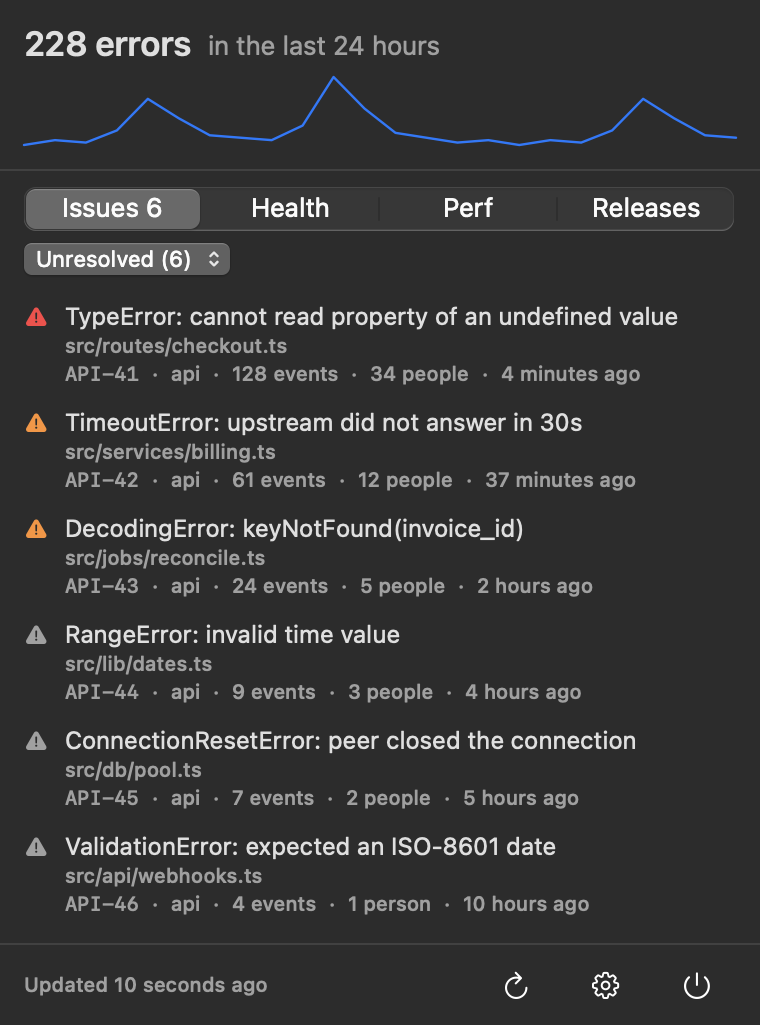
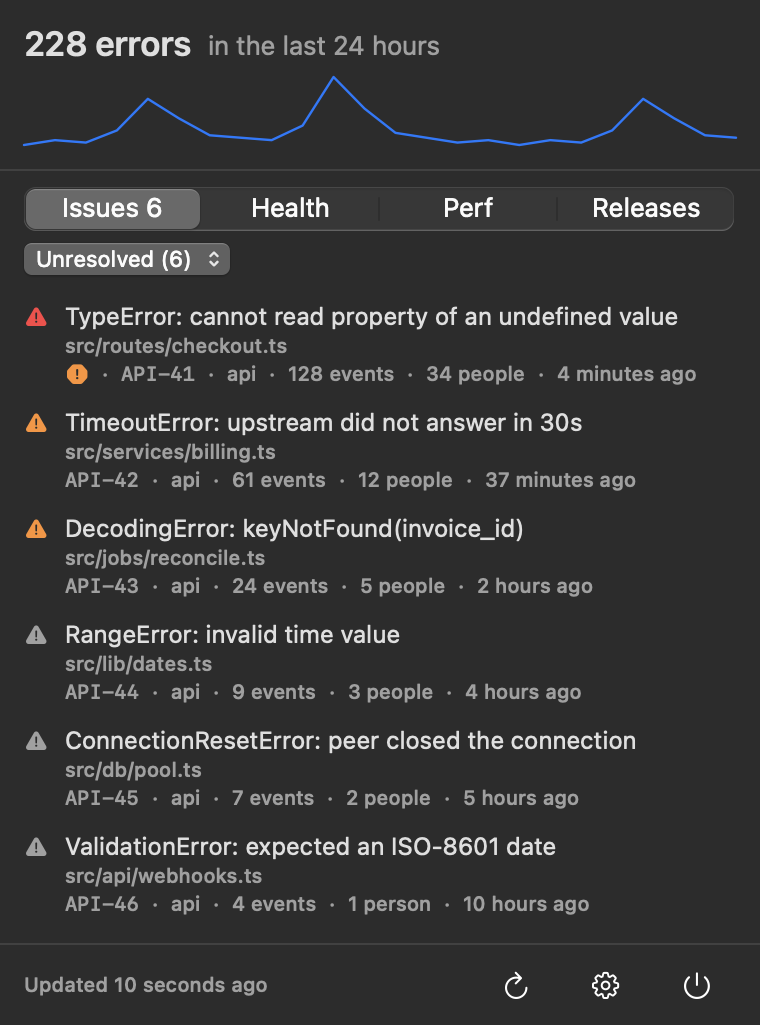
feat: mark the issues that crashed, and let Dependabot watch the pinned actions
isUnhandled had been decoded since the first commit and displayed nowhere. An
unhandled error is a crash rather than something the code caught and carried on
from, which is the next thing worth knowing after the title, and Sentry sends it
on every issue at no extra cost.

It is a marker and not the word "crash". The word fit until it did not: with it
in the metadata line the row wrapped and pushed the timestamp onto a second line
at the panel's 380 pt, which the render showed and no amount of reading the code
would have. The sentence is in the tooltip and in the row's accessibility label,
so nothing is lost to a pointer or to VoiceOver.

With that there is nothing decoded from Sentry that goes unused. A sweep turns
up five more candidates and all five are read through a computed property:
shortVersion through label, uptimeStatus through isHealthy, isMuted through
isActive, errorIDs through errorCount, expiresIn through the device flow's
deadline.

Dependabot covers github-actions only. Swift Package Manager is not in its
supported ecosystems, checked against GitHub's own table rather than assumed,
which is the same lesson the muter config taught an hour ago: a key the tool
ignores is worse than no key, because the file looks configured.

Claude-Session: https://claude.ai/code/session_01EnyBemE5XT9BRzHrKcKQFh

Changed region(s): [[0.3026, 0.3434, 0.9079, 0.3746], [0.0908, 0.3434, 0.2724, 0.3746]]

diff --git a/Sources/Centinela/PanelRows.swift b/Sources/Centinela/PanelRows.swift
@@ -17,6 +17,9 @@ struct IssueSection: View {
         var parts: [String] = []
         parts.append(issue.triage.label + " priority")
         parts.append(issue.title)
+        if issue.isUnhandled == true {
+            parts.append("unhandled, a crash")
+        }
         if let culprit = issue.culprit, !culprit.isEmpty {
             parts.append("in " + culprit)
         }
@@ -70,6 +73,22 @@ struct IssueSection: View {
                             // about it. It was decoded from the first commit and never shown.
                             if differentiateWithoutColor {
                                 Text(issue.triage.label)
+                                Text("·")
+                            }
+                            // Decoded since the first commit and never shown until now. An
+                            // unhandled error is a crash rather than something the code caught
+                            // and carried on from, which is the next thing worth knowing after
+                            // the title, and Sentry sends it for free on every issue.
+                            if issue.isUnhandled == true {
+                                // A symbol and not the word "crash". The word fits until it
+                                // does not: with it in place this line wrapped and pushed the
+                                // timestamp onto a second row at the panel's 380 pt. The meaning
+                                // is carried by the tooltip for a pointer and by the row's
+                                // accessibility label for VoiceOver, which both say it in full.
+                                Image(systemName: "exclamationmark.octagon.fill")
+                                    .foregroundStyle(.orange)
+                                    .help("Unhandled: this one crashed")
+                                Text("·")
                             }
                             Text(issue.shortId)
                                 .font(.system(.caption2, design: .monospaced))

diff --git a/Tools/screenshot.swift b/Tools/screenshot.swift
@@ -29,12 +29,14 @@ import SwiftUI
         }
 
         func issue(_ id: String, _ title: String, _ culprit: String, _ count: Int,
-                   _ users: Int, _ sub: String, _ pri: String, _ seen: String) -> SentryIssue {
+                   _ users: Int, _ sub: String, _ pri: String, _ seen: String,
+                   _ unhandled: Bool = false) -> SentryIssue {
             let json = """
             {"id":"\(id)","shortId":"API-\(id)","title":"\(title)","culprit":"\(culprit)",
              "level":"error","substatus":"\(sub)","priority":"\(pri)",
              "permalink":"https://example.sentry.io/issues/\(id)/",
              "lastSeen":"\(seen)","userCount":\(users),"count":"\(count)",
+             "isUnhandled":\(unhandled),
              "project":{"id":"1","slug":"api","name":"api"}}
             """
             let dec = JSONDecoder(); dec.dateDecodingStrategy = .iso8601
@@ -43,7 +45,7 @@ import SwiftUI
 
         var list: [SentryIssue] = []
         list.append(issue("41", "TypeError: cannot read property of an undefined value",
-                           "src/routes/checkout.ts", 128, 34, "escalating", "high", minutesAgo(4)))
+                           "src/routes/checkout.ts", 128, 34, "escalating", "high", minutesAgo(4), true))
         list.append(issue("42", "TimeoutError: upstream did not answer in 30s",
                            "src/services/billing.ts", 61, 12, "ongoing", "medium", minutesAgo(37)))
         list.append(issue("43", "DecodingError: keyNotFound(invoice_id)",

diff --git a/CHANGELOG.md b/CHANGELOG.md
@@ -6,6 +6,11 @@ The release workflow reads the section for the tag being published out of this f
 
 ## [Unreleased]
 
+### Added
+
+- **An issue that crashed says so.** `isUnhandled` had been decoded since the first commit and shown nowhere: an unhandled error is a crash rather than something the code caught and carried on from, which is the next thing worth knowing after the title, and Sentry sends it on every issue for free. It is a marker rather than the word "crash", because the word fit until it did not — with it in place the metadata line wrapped and pushed the timestamp onto a second row at the panel's 380 pt. The full sentence is in the tooltip and in what VoiceOver reads. With that, nothing decoded from Sentry goes unused: the other five candidates a sweep turns up are all read through a computed property.
+- **Dependabot, for the pinned actions.** Every action in the workflows is pinned to a full commit SHA, which is the right call because a tag can be moved underneath you, and it is also a version nobody will ever notice going stale. Swift Package Manager is **not** one of Dependabot's supported ecosystems — checked against GitHub's own table rather than assumed, the same lesson the muter config just taught — so Sparkle stays watched by hand.
+
 ### Fixed
 
 - **Mutation testing had never run once, and four of its five failures were real defects.** The workflow was weekly and was added days before the first Monday, so the first execution was triggered by hand. `--output-json` is not a muter flag, so it died before mutating a line. Muter mutates a copy and resolves dependencies there, so with nothing in SwiftPM's cache that copy tried to clone Sparkle over the network. `mutateFilesInDirectories` is ignored, so it mutated the SwiftUI target the config excludes and emitted Swift that does not compile. And `swift test` in debug makes SwiftPM code-sign the executable, a spawn that fails inside muter, where a release build — which is what `make test` runs anyway — never reaches it. All four fixed; the fifth, a baseline failure in one test that passes locally, in CI, and from a copied checkout, is written up in `docs/notes.md` and the weekly schedule is off until it is understood. A job that fails every Monday teaches people to ignore Monday.
